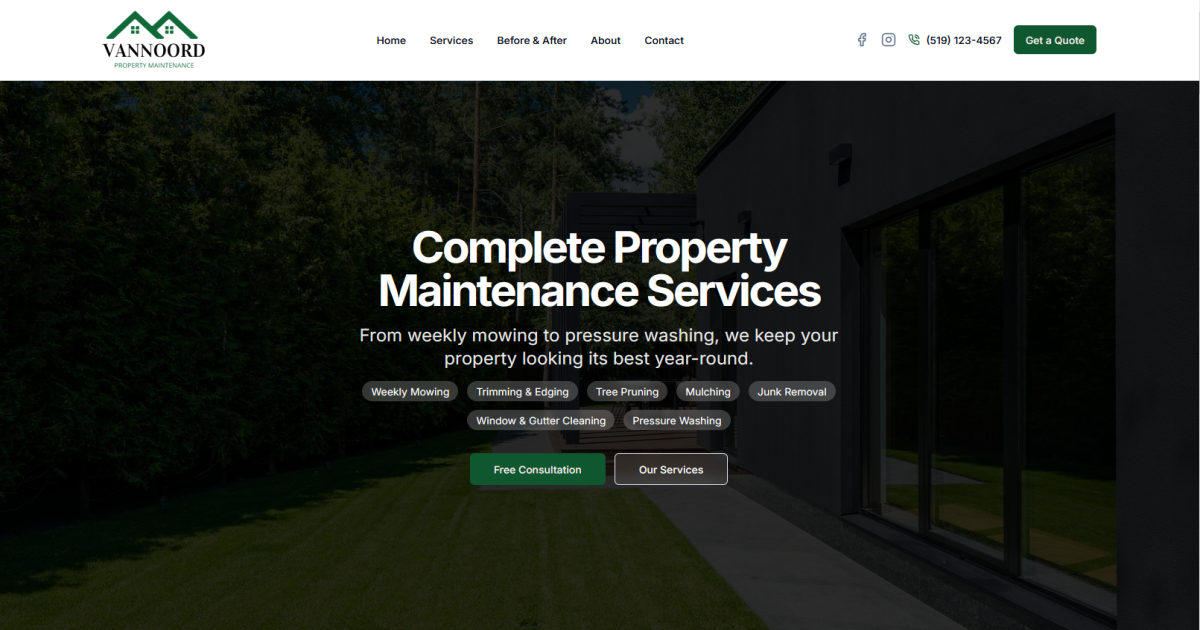
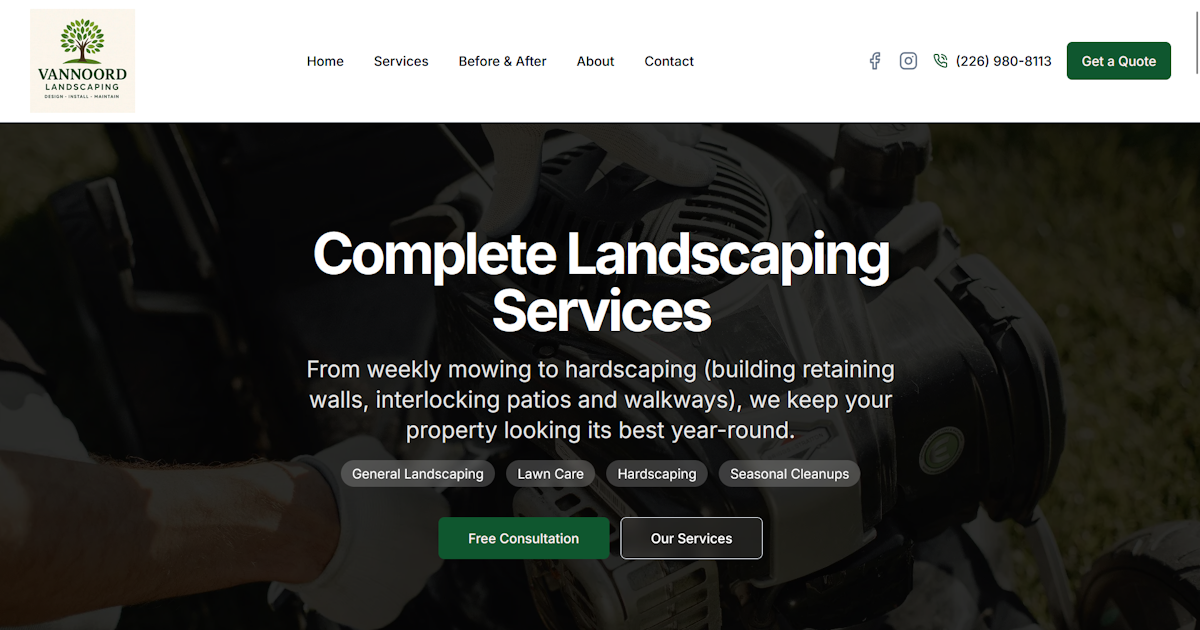
SEO, contact form update
-update robots/sitemap and SEO with new url/name
-update contact form frontend to accept multiple services
-update api to handle new services format

diff --git a/components/contact-form.tsx b/components/contact-form.tsx
@@ -1,13 +1,27 @@
 "use client"
 
-import React, { useState } from "react"
 import { Button } from "@/components/ui/button"
+import React, { useState } from "react"
+
+const SERVICE_OPTIONS = [
+  "Hardscaping",
+  "Weekly Mowing",
+  "Tree Pruning",
+  "Garden Maintenance",
+  "Gutter Cleaning",
+  "Seasonal Cleanups",
+  "Sod Installation",
+  "Lawn Rolling",
+  "Aerating",
+  "Dethatching",
+  "Other",
+] as const
 
 interface FormData {
   name: string
   email: string
   phone: string
-  service: string
+  services: string[]
   message: string
 }
 
@@ -16,7 +30,7 @@ export function ContactForm() {
     name: "",
     email: "",
     phone: "",
-    service: "",
+    services: [],
     message: "",
   })
   const [isSubmitting, setIsSubmitting] = useState(false)
@@ -26,10 +40,20 @@ export function ContactForm() {
   } | null>(null)
 
   const handleChange = (
-    e: React.ChangeEvent<HTMLInputElement | HTMLTextAreaElement | HTMLSelectElement>
+    e: React.ChangeEvent<HTMLInputElement | HTMLTextAreaElement>
   ) => {
     const { id, value } = e.target
     setFormData((prev) => ({ ...prev, [id]: value }))
+  }
+
+  const handleServiceChange = (option: string) => {
+    setFormData((prev) => {
+      const isSelected = prev.services.includes(option)
+      const nextServices = isSelected
+        ? prev.services.filter((s) => s !== option)
+        : [...prev.services, option]
+      return { ...prev, services: nextServices }
+    })
   }
 
   const handleSubmit = async (e: React.FormEvent) => {
@@ -58,7 +82,7 @@ export function ContactForm() {
           name: "",
           email: "",
           phone: "",
-          service: "",
+          services: [],
           message: "",
         })
       } else {
@@ -81,9 +105,8 @@ export function ContactForm() {
     <form className="space-y-4" onSubmit={handleSubmit}>
       {submitStatus && (
         <div
-          className={`p-4 rounded-md ${
-            submitStatus.success ? "bg-green-100 text-green-800" : "bg-red-100 text-red-800"
-          }`}
+          className={`p-4 rounded-md ${submitStatus.success ? "bg-green-100 text-green-800" : "bg-red-100 text-red-800"
+            }`}
         >
           {submitStatus.message}
         </div>
@@ -131,26 +154,26 @@ export function ContactForm() {
           className="w-full rounded-md border border-input bg-background px-3 py-2 text-sm ring-offset-background placeholder:text-muted-foreground focus-visible:outline-none focus-visible:ring-2 focus-visible:ring-ring"
         />
       </div>
-      <div className="space-y-2">
-        <label htmlFor="service" className="text-sm font-medium">
-          Service Interested In
-        </label>
-        <select
-          id="service"
-          value={formData.service}
-          onChange={handleChange}
-          className="w-full rounded-md border border-input bg-background px-3 py-2 text-sm ring-offset-background focus-visible:outline-none focus-visible:ring-2 focus-visible:ring-ring"
-        >
-          <option value="">Select a service</option>
-          <option value="mowing">Weekly Mowing</option>
-          <option value="trimming">Trimming & Edging</option>
-          <option value="pruning">Tree Pruning</option>
-          <option value="mulching">Mulching</option>
-          <option value="junk-removal">Junk Removal</option>
-          <option value="window-gutter">Window & Gutter Cleaning</option>
-          <option value="pressure-washing">Pressure Washing</option>
-          <option value="other">Other</option>
-        </select>
+      <div className="space-y-3">
+        <p className="text-sm font-medium">
+          Services interested in (select any)
+        </p>
+        <div className="grid gap-2 sm:grid-cols-2">
+          {SERVICE_OPTIONS.map((option) => (
+            <label
+              key={option}
+              className="flex cursor-pointer items-center gap-2 rounded-md border border-input bg-background px-3 py-2 text-sm ring-offset-background has-[:focus-visible]:ring-2 has-[:focus-visible]:ring-ring"
+            >
+              <input
+                type="checkbox"
+                checked={formData.services.includes(option)}
+                onChange={() => handleServiceChange(option)}
+                className="h-4 w-4 rounded border-input"
+              />
+              <span>{option}</span>
+            </label>
+          ))}
+        </div>
       </div>
       <div className="space-y-2">
         <label htmlFor="message" className="text-sm font-medium">
@@ -166,8 +189,8 @@ export function ContactForm() {
           className="w-full rounded-md border border-input bg-background px-3 py-2 text-sm ring-offset-background placeholder:text-muted-foreground focus-visible:outline-none focus-visible:ring-2 focus-visible:ring-ring"
         ></textarea>
       </div>
-      <Button 
-        type="submit" 
+      <Button
+        type="submit"
         className="w-full bg-primary hover:bg-primary/90 text-primary-foreground"
         disabled={isSubmitting}
       >
@@ -175,4 +198,4 @@ export function ContactForm() {
       </Button>
     </form>
   )
-} 
+}

diff --git a/app/layout.tsx b/app/layout.tsx
@@ -1,8 +1,8 @@
-import type React from "react"
-import { Inter } from "next/font/google"
-import "./globals.css"
-import { Metadata } from "next"
 import { Analytics } from "@vercel/analytics/react"
+import { Metadata } from "next"
+import { Inter } from "next/font/google"
+import type React from "react"
+import "./globals.css"
 
 const inter = Inter({ subsets: ["latin"] })
 
@@ -12,20 +12,20 @@ export const metadata: Metadata = {
   keywords: "landscaping, lawn care, landscaping, Aylmer, Ontario, tree pruning, pressure washing, junk removal, gutter cleaning, seasonal cleanups, sod installation, lawn aerating, dethatching, lawn rolling, garden maintenance",
   authors: [{ name: "Vannoord Landscaping" }],
   creator: "Vannoord Landscaping",
-  metadataBase: new URL("https://vannoordpropertymaintenance.com"),
+  metadataBase: new URL("https://vannoordlandscaping.com"),
   alternates: {
     canonical: "/",
   },
   openGraph: {
     type: "website",
     locale: "en_CA",
-    url: "https://vannoordpropertymaintenance.com",
+    url: "https://vannoordlandscaping.com",
     title: "Vannoord Landscaping - Aylmer, Ontario",
     description: "Professional landscaping services including weekly mowing, garden maintenance, tree pruning, pressure washing, seasonal cleanups, sod installation, lawn aerating, dethatching, and more in Aylmer, Ontario and surrounding areas.",
     siteName: "Vannoord Landscaping",
     images: [
       {
-        url: "https://vannoordpropertymaintenance.com/og-image.jpg",
+        url: "https://vannoordlandscaping.com/og-image.jpg",
         width: 1200,
         height: 630,
         type: "image/jpg",
@@ -34,7 +34,7 @@ export const metadata: Metadata = {
     ],
   },
   other: {
-    'og:image': 'https://vannoordpropertymaintenance.com/og-image.jpg',
+    'og:image': 'https://vannoordlandscaping.com/og-image.jpg',
     'og:image:width': '1200',
     'og:image:height': '630',
     'og:image:type': 'image/jpg',
@@ -44,7 +44,7 @@ export const metadata: Metadata = {
     card: "summary_large_image",
     title: "Vannoord Landscaping - Aylmer, Ontario",
     description: "Professional landscaping services including weekly mowing, garden maintenance, tree pruning, pressure washing, seasonal cleanups, sod installation, lawn aerating, dethatching, and more in Aylmer, Ontario and surrounding areas.",
-    images: ["https://vannoordpropertymaintenance.com/og-image.jpg"],
+    images: ["https://vannoordlandscaping.com/og-image.jpg"],
   },
   robots: {
     index: true,
@@ -177,4 +177,3 @@ export default function RootLayout({
     </html>
   )
 }
-

diff --git a/app/api/contact/route.ts b/app/api/contact/route.ts
@@ -9,7 +9,7 @@ export async function POST(request: Request) {
   try {
     // Parse the request body
     const body = await request.json()
-    const { name, email, phone, service, message } = body
+    const { name, email, phone, services, service, message } = body
 
     // Validate required fields
     if (!name || !email || !message) {
@@ -19,19 +19,23 @@ export async function POST(request: Request) {
       )
     }
 
-    // Format service selection
-    const formattedService = service ? service.replace(/-/g, ' ').replace(/\b\w/g, (l: string) => l.toUpperCase()) : "Not specified"
+    // Build service string: prefer services array (comma-separated), fallback to legacy service string
+    const serviceString = Array.isArray(services) && services.length > 0
+      ? services.join(", ")
+      : typeof service === "string" && service.trim()
+        ? service.replace(/-/g, " ").replace(/\b\w/g, (l: string) => l.toUpperCase())
+        : "Not specified"
 
     // Send email using Resend
     const { data, error } = await resend.emails.send({
-      from: `Contact Form <info@vannoordpropertymaintenance.com>`,
+      from: `Contact Form <info@vannoordlandscaping.com>`,
       to: [toEmail],
       subject: `New Contact Form Submission from ${name}`,
       react: EmailTemplate({
         name,
         email,
         phone: phone || "Not provided",
-        service: formattedService,
+        service: serviceString,
         message
       }),
       replyTo: email,
